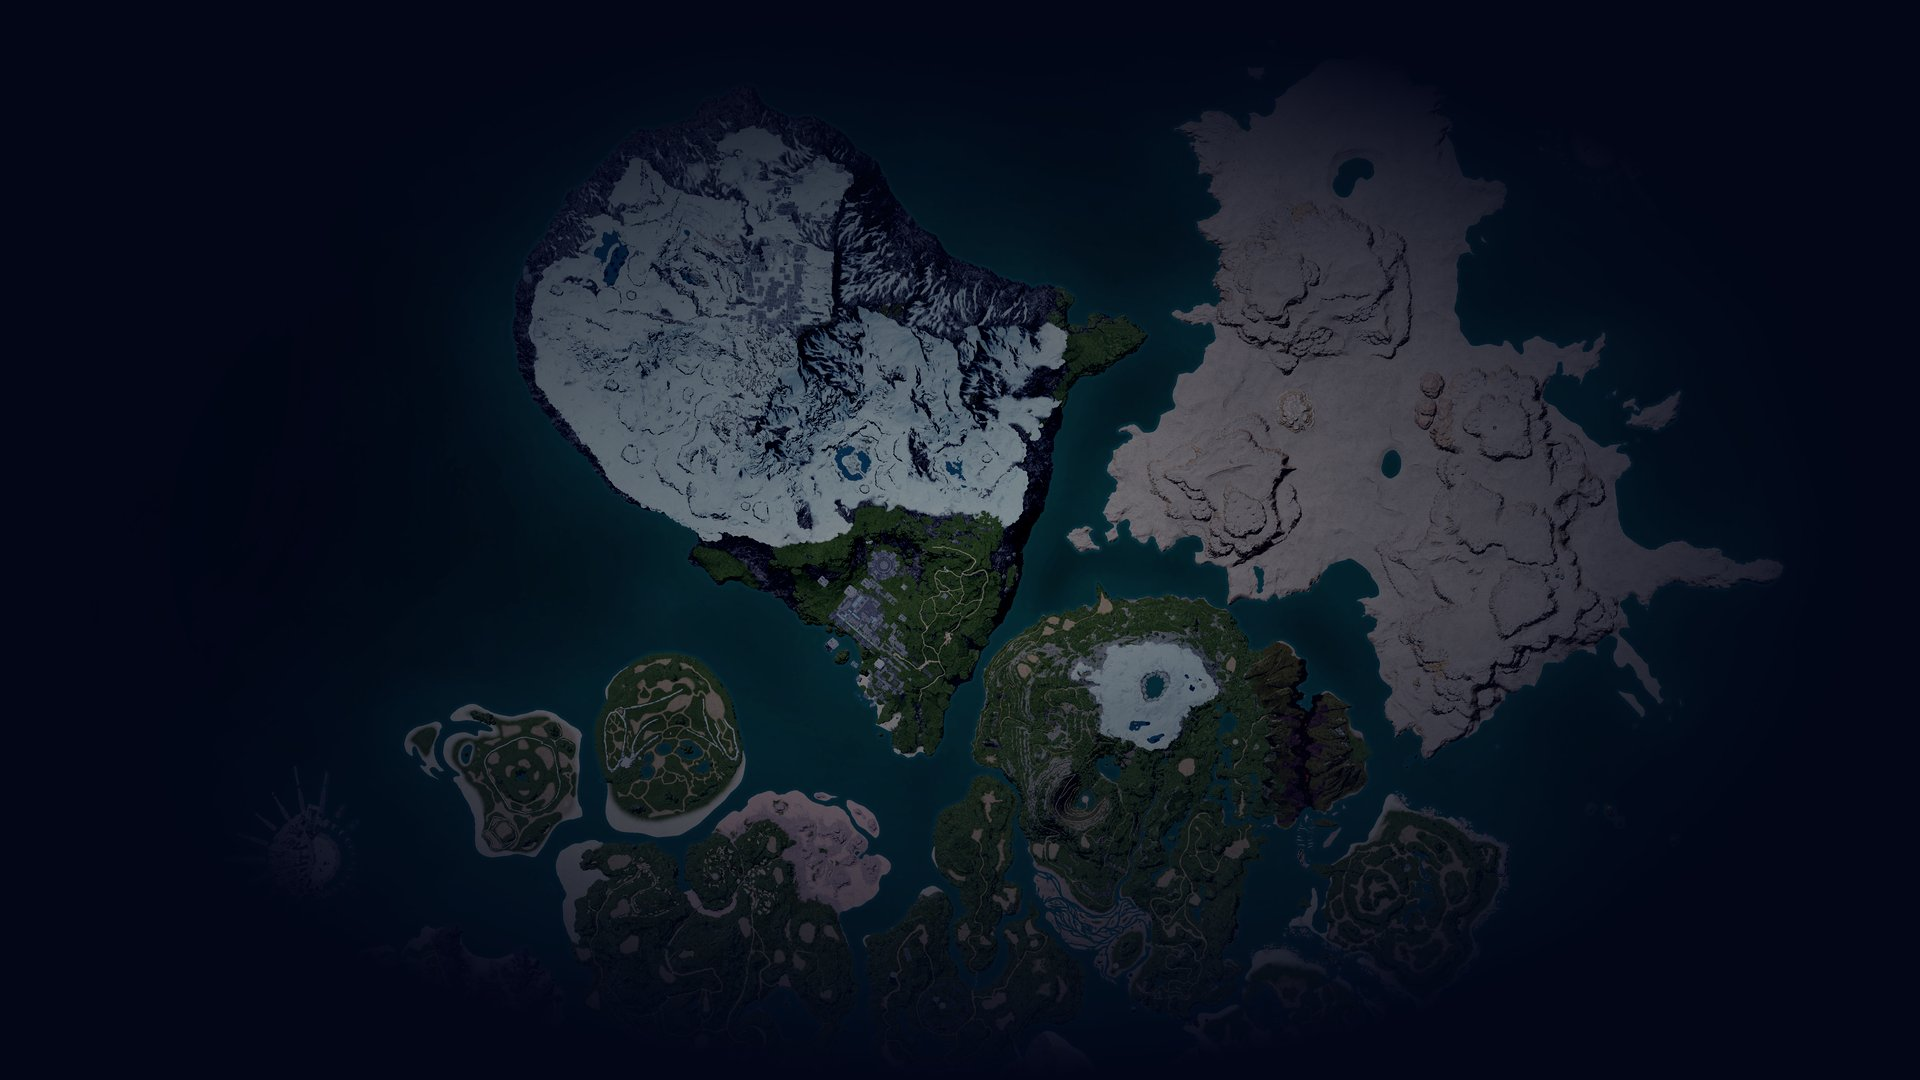
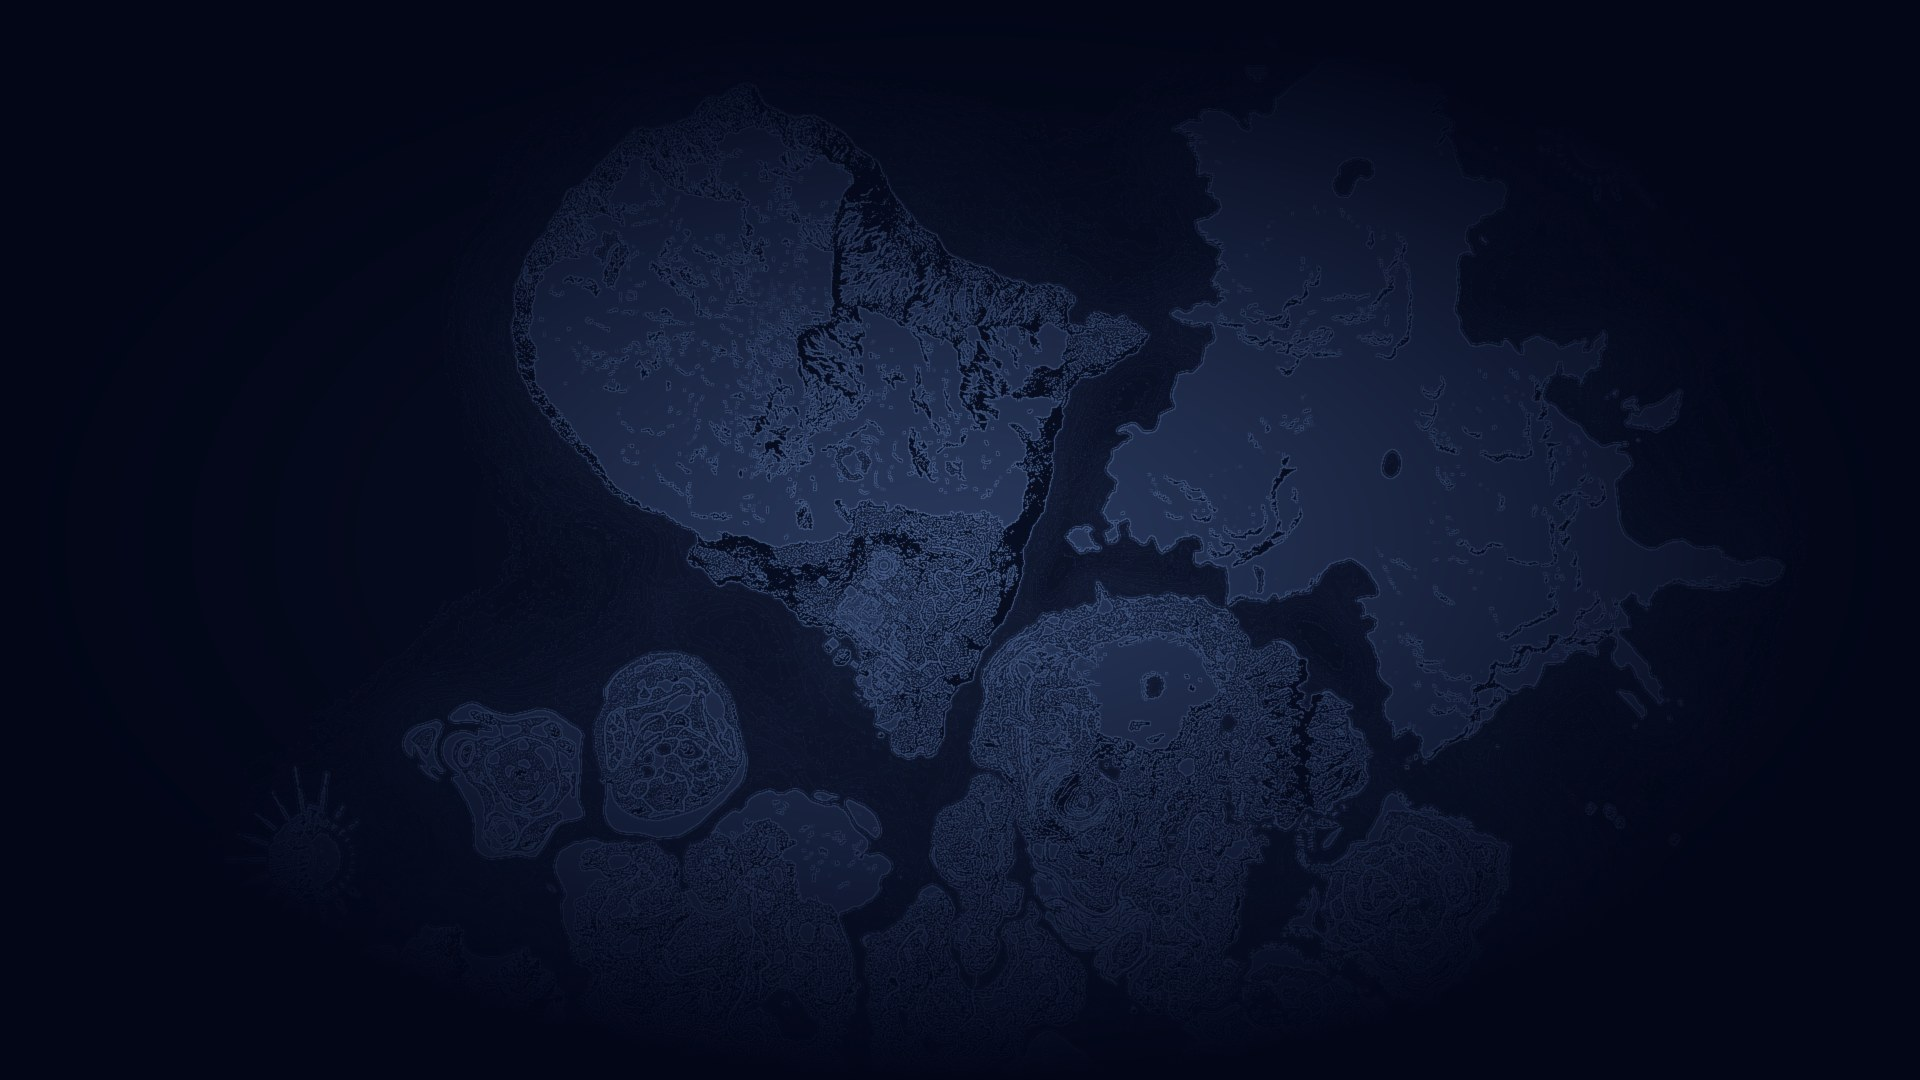
fix(homepage): move map background inside hero section to ensure visibility

Changed region(s): [[0.2188, 0.1222, 0.9062, 0.8861], [0.8438, 0.3667, 0.875, 0.3972]]

diff --git a/app/page.tsx b/app/page.tsx
@@ -17,44 +17,46 @@ export default function HomePage() {
 
   return (
     <div className="relative min-h-screen overflow-hidden bg-[#020617]">
-      {/* Map background — pre-cropped hero image with strong land/sea contrast */}
-      <div
-        className="pointer-events-none absolute inset-0 -z-20 bg-cover bg-center bg-no-repeat"
-        style={{
-          backgroundImage: "url('/map/palworld-map-hero-bg.jpg')",
-          filter: "brightness(1.1) contrast(1.05)",
-        }}
-      />
-
-      {/* Dark gradient overlay — light enough so the cropped map stays visible */}
-      <div className="pointer-events-none absolute inset-0 -z-10 bg-gradient-to-b from-[#020617]/40 via-[#020617]/30 to-[#020617]/75" />
-      <div className="pointer-events-none absolute inset-0 -z-10 bg-gradient-to-r from-[#020617]/30 via-transparent to-[#020617]/30" />
-
-      {/* Atmospheric glow */}
-      <div className="pointer-events-none absolute inset-0 -z-10 blur-3xl">
-        <div className="absolute left-1/2 top-0 h-[24rem] w-[24rem] -translate-x-1/2 rounded-full bg-red-600/12" />
-        <div className="absolute right-1/4 top-1/4 h-[32rem] w-[32rem] rounded-full bg-blue-600/8" />
-        <div className="absolute bottom-0 left-1/3 h-[24rem] w-[24rem] rounded-full bg-purple-600/8" />
-      </div>
-
       <main className="pt-10">
         {/* Hero */}
-        <section className="relative mx-auto max-w-[1440px] px-6 py-16 text-center md:px-12 md:py-24">
-          <h1 className="font-display text-4xl font-extrabold tracking-tight text-white drop-shadow-2xl md:text-6xl">
-            Palworld Breeding Calculator
-            <br className="hidden md:block" />{" "}
-            <span className="text-red-500">&amp; Interactive Map</span>
-          </h1>
-          <p className="mx-auto mt-6 max-w-3xl text-lg leading-relaxed text-slate-300 drop-shadow md:text-xl">
-            Plan your perfect Pal the easy way. Calculate combos, optimize passive skill inheritance, find the shortest breeding path, and track spawn locations — all in one friendly spot.
-          </p>
+        <section className="relative overflow-hidden text-center">
+          {/* Map background — pre-cropped hero image with strong land/sea contrast */}
+          <div
+            className="pointer-events-none absolute inset-0 bg-cover bg-center bg-no-repeat"
+            style={{
+              backgroundImage: "url('/map/palworld-map-hero-bg.jpg')",
+              filter: "brightness(1.1) contrast(1.05)",
+            }}
+          />
 
-          {/* Main tool box */}
-          <div className="mx-auto mt-12 max-w-4xl overflow-hidden rounded-2xl border border-slate-700/50 bg-slate-900/60 shadow-2xl backdrop-blur-xl">
-            <Tabs labels={["Forward: Select parents → child", "Reverse: Target Pal → parents"]}>
-              <ForwardCalculator pals={pals} />
-              <ReverseCalculator pals={pals} />
-            </Tabs>
+          {/* Dark gradient overlay — light enough so the cropped map stays visible */}
+          <div className="pointer-events-none absolute inset-0 bg-gradient-to-b from-[#020617]/40 via-[#020617]/30 to-[#020617]/75" />
+          <div className="pointer-events-none absolute inset-0 bg-gradient-to-r from-[#020617]/30 via-transparent to-[#020617]/30" />
+
+          {/* Atmospheric glow */}
+          <div className="pointer-events-none absolute inset-0 blur-3xl">
+            <div className="absolute left-1/2 top-0 h-[24rem] w-[24rem] -translate-x-1/2 rounded-full bg-red-600/12" />
+            <div className="absolute right-1/4 top-1/4 h-[32rem] w-[32rem] rounded-full bg-blue-600/8" />
+            <div className="absolute bottom-0 left-1/3 h-[24rem] w-[24rem] rounded-full bg-purple-600/8" />
+          </div>
+
+          <div className="relative mx-auto max-w-[1440px] px-6 py-16 md:px-12 md:py-24">
+            <h1 className="font-display text-4xl font-extrabold tracking-tight text-white drop-shadow-2xl md:text-6xl">
+              Palworld Breeding Calculator
+              <br className="hidden md:block" />{" "}
+              <span className="text-red-500">&amp; Interactive Map</span>
+            </h1>
+            <p className="mx-auto mt-6 max-w-3xl text-lg leading-relaxed text-slate-300 drop-shadow md:text-xl">
+              Plan your perfect Pal the easy way. Calculate combos, optimize passive skill inheritance, find the shortest breeding path, and track spawn locations — all in one friendly spot.
+            </p>
+
+            {/* Main tool box */}
+            <div className="mx-auto mt-12 max-w-4xl overflow-hidden rounded-2xl border border-slate-700/50 bg-slate-900/60 shadow-2xl backdrop-blur-xl">
+              <Tabs labels={["Forward: Select parents → child", "Reverse: Target Pal → parents"]}>
+                <ForwardCalculator pals={pals} />
+                <ReverseCalculator pals={pals} />
+              </Tabs>
+            </div>
           </div>
         </section>
 
